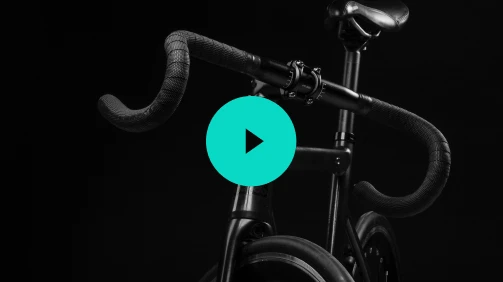
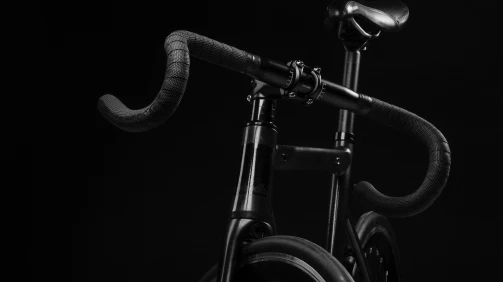
делает разметку и стили блоку видео

Changed region(s): [[0.3877, 0.3404, 0.5964, 0.6809]]

diff --git a/build/css/style.min.css b/build/css/style.min.css
@@ -1,3 +1,3 @@
 /*! normalize.css v8.0.1 | MIT License | github.com/necolas/normalize.css */
-html{line-height:1.15;-webkit-text-size-adjust:100%}body,sub,sup{position:relative}body{margin:0;font-family:"Open Sans","Arial",sans-serif;color:#fff;font-weight:400;font-size:16px;line-height:2}details,img,main{display:block}h1{font-size:2em;margin:.67em 0}hr{-webkit-box-sizing:content-box;box-sizing:content-box;height:0;overflow:visible}code,kbd,pre,samp{font-family:monospace,monospace;font-size:1em}a{background-color:transparent;text-decoration:none;color:inherit}abbr[title]{border-bottom:none;-webkit-text-decoration:underline dotted;text-decoration:underline dotted}b,strong{font-weight:bolder}small{font-size:80%}sub,sup{font-size:75%;line-height:0;vertical-align:baseline}sub{bottom:-.25em}sup{top:-.5em}img{border-style:none;width:100%;height:auto}button,input,optgroup,select,textarea{font-family:inherit;font-size:100%;line-height:1.15;margin:0}button,input{overflow:visible}button,select{text-transform:none}[type=button],[type=reset],[type=submit],button{-webkit-appearance:button}[type=button]::-moz-focus-inner,[type=reset]::-moz-focus-inner,[type=submit]::-moz-focus-inner,button::-moz-focus-inner{border-style:none;padding:0}[type=button]:-moz-focusring,[type=reset]:-moz-focusring,[type=submit]:-moz-focusring,button:-moz-focusring{outline:1px dotted ButtonText}fieldset{padding:.35em .75em .625em}legend{color:inherit;display:table;max-width:100%;white-space:normal}progress{vertical-align:baseline}textarea{overflow:auto}[type=checkbox],[type=radio],legend{-webkit-box-sizing:border-box;box-sizing:border-box;padding:0}[type=number]::-webkit-inner-spin-button,[type=number]::-webkit-outer-spin-button{height:auto}[type=search]{-webkit-appearance:textfield;outline-offset:-2px}[type=search]::-webkit-search-decoration{-webkit-appearance:none}::-webkit-file-upload-button{-webkit-appearance:button;font:inherit}summary{display:list-item}.main-nav .main-nav__toggle,[hidden],template{display:none}@font-face{font-family:"Open Sans";src:url(../fonts/open-sans-300.woff2) format("woff2"),url(../fonts/open-sans-300.woff) format("woff");font-weight:300;font-style:normal;font-display:swap}@font-face{font-family:"Open Sans";src:url(../fonts/open-sans-400.woff2) format("woff2"),url(../fonts/open-sans-400.woff) format("woff");font-weight:400;font-style:normal;font-display:swap}@font-face{font-family:"Open Sans";src:url(../fonts/open-sans-600.woff2) format("woff2"),url(../fonts/open-sans-600.woff) format("woff");font-weight:600;font-style:normal;font-display:swap}@font-face{font-family:"Open Sans";src:url(../fonts/open-sans-700.woff2) format("woff2"),url(../fonts/open-sans-700.woff) format("woff");font-weight:700;font-style:normal;font-display:swap}.visually-hidden{position:absolute;width:1px;height:1px;margin:-1px;border:0;padding:0;clip:rect(0 0 0 0);overflow:hidden}.container{max-width:1440px;margin:0 auto;padding:0 15px}@media (max-width:1023px){.container{min-width:768px}}@media (max-width:767px){.container{min-width:320px}}*,::after,::before{-webkit-box-sizing:border-box;box-sizing:border-box}.overflowed{overflow:hidden}.main-nav,.main-nav .main-nav__list{display:-webkit-box;display:-ms-flexbox;display:flex}.main-nav{border-bottom:1px solid rgba(255,255,255,.2);padding:20px 20px 10px}.main-nav .main-nav__list{padding:0;margin:0;list-style:none;-webkit-box-pack:justify;-ms-flex-pack:justify;justify-content:space-between;-ms-flex-wrap:wrap;flex-wrap:wrap;width:100%;font-weight:300;opacity:.7}.main-nav .main-nav__list li:hover{color:#0ad9c6}@media (max-width:1023px){.main-nav{position:relative;padding:0}.main-nav .main-nav__toggle{display:block;position:absolute;background:#0ad9c6;width:50px;height:50px;right:0;padding:0;border:0;z-index:5;cursor:pointer}.main-nav--closed .main-nav__toggle::before{content:"";position:absolute;top:16px;right:13px;width:25px;height:1px;background-color:#1f1f1f;-webkit-box-shadow:0 8px 0 0 #1f1f1f,0 16px 0 0 #1f1f1f;box-shadow:0 8px 0 0 #1f1f1f,0 16px 0 0 #1f1f1f}.main-nav--opened .main-nav__toggle::after,.main-nav--opened .main-nav__toggle::before{content:"";position:absolute;right:13px;width:25px;height:1px;background-color:rgba(20,21,23,.2)}.main-nav .main-nav__list a::after,.main-nav--opened .main-nav__toggle::before{-webkit-transform:rotate(45deg);transform:rotate(45deg)}.main-nav--opened .main-nav__toggle::after{-webkit-transform:rotate(-45deg);transform:rotate(-45deg)}.main-nav--opened .main-nav__toggle{background:0 0}.main-nav--closed .main-nav__list{display:none}.main-nav--opened{background-color:#fff;z-index:2}.main-nav--opened .main-nav__list{-webkit-box-orient:vertical;-webkit-box-direction:normal;-ms-flex-direction:column;flex-direction:column;-webkit-box-pack:end;-ms-flex-pack:end;justify-content:end;min-height:100vh;color:#48494d;margin-top:70px}.main-nav .main-nav__list li{padding:16px;background-color:#f6f6f6;margin-top:30px;font-size:20px;font-weight:400;line-height:28px;letter-spacing:.6px}.main-nav .main-nav__list a{position:relative;display:block}.main-nav .main-nav__list a::after{content:"";position:absolute;border-top:1px solid #48494d;border-right:1px solid #48494d;width:8px;height:8px;top:9px;right:10px}.main-nav--nojs .main-nav__list{min-height:100%}.main-nav--nojs .main-nav__toggle{display:none}}.intro{display:-webkit-box;display:-ms-flexbox;display:flex;margin:0 auto;-webkit-box-pack:center;-ms-flex-pack:center;justify-content:center;min-height:760px;-webkit-box-align:center;-ms-flex-align:center;align-items:center;position:relative}.intro .intro__inner{max-width:393px;position:relative}.intro .intro__logo{position:absolute;top:15px;left:0}.intro .intro__inner h2{font-size:46px;line-height:64px;margin-top:65px;margin-bottom:25px;letter-spacing:2px}.intro .intro__inner p{margin:0;font-size:20px;font-weight:300;line-height:32px;opacity:.8}.intro .intro__form{margin-left:160px;max-width:330px;padding-top:22px}.intro .intro__form p{font-weight:600;font-size:17px;line-height:28px;text-align:center;letter-spacing:.3px}.intro .intro__form button,.intro .intro__form input{margin-top:20px;width:100%}.intro .intro__form input{padding:12px 30px;border:0;-webkit-box-shadow:0 0 0 1px #c9ccd4;box-shadow:0 0 0 1px #c9ccd4;border-radius:4px;-webkit-box-flex:1;-ms-flex-positive:1;flex-grow:1;font-size:15px;line-height:24px;letter-spacing:.3px}.intro .intro__form input:hover{-webkit-box-shadow:0 0 0 3px #0ad9c6;box-shadow:0 0 0 3px #0ad9c6}.intro .intro__form p,.intro .intro__inner{margin:0}.intro .intro__form button{background:#0ad9c6;border-radius:6px;font-weight:600;font-size:15px;line-height:21px;padding:15px 10px;border:0;cursor:pointer}.intro .intro__form button:hover{background-color:#08a89a}@media (max-width:1023px){.intro{-webkit-box-orient:vertical;-webkit-box-direction:normal;-ms-flex-direction:column;flex-direction:column;-webkit-box-pack:initial;-ms-flex-pack:initial;justify-content:initial;min-height:738px;padding:0}.intro--nojs::before{top:480px}.intro .intro__logo{left:20px;top:25px}.intro .intro__form{max-width:321px;margin-left:0;padding:0}.intro .intro__form button,.intro .intro__form input{margin-top:0;margin-bottom:20px}.intro .intro__form input{padding:12px 25px}.intro .intro__inner{max-width:100%;text-align:center;margin-top:68px;background-image:url(../img/img-bike-tablet@1x.png);min-height:340px;background-repeat:no-repeat;background-position:center;background-size:cover;background-color:#1f1f1f;width:100%;top:-69px;left:0;bottom:0;z-index:-1}}@media (max-width:1023px) and (-webkit-min-device-pixel-ratio:1.5),(max-width:1023px) and (min-resolution:1.5dppx){.intro .intro__inner{background-image:url(../img/img-bike-tablet@2x.png)}}@media (max-width:1023px){.intro .intro__inner--nojs{top:500px}.intro .intro__inner h2{font-size:30px;line-height:42px;margin-top:135px;margin-bottom:20px;letter-spacing:.9px}.intro .intro__inner p{font-size:18px;max-width:435px;margin:0 auto;letter-spacing:.3px}.intro .intro__form p{font-weight:600;font-size:18px;color:#000;margin-bottom:30px;letter-spacing:0}}@media (max-width:767px){.intro .intro__logo{top:24px;left:17px}.intro .intro__inner{margin-top:55px;padding:0 15px;background-image:url(../img/img-bike-mobile@1x.png);min-height:390px;top:-56px}}@media (max-width:767px) and (-webkit-min-device-pixel-ratio:1.5),(max-width:767px) and (min-resolution:1.5dppx){.intro .intro__inner{background-image:url(../img/img-bike-mobile@2x.png)}}@media (max-width:767px){.intro .intro__inner h2{margin-top:120px}.intro .intro__form p{margin-bottom:20px;letter-spacing:.3px}.intro .intro__form{padding:0 17px;margin-top:14px}}.header{margin:0 auto;max-width:875px;position:relative;padding:0}@media (max-width:1023px){.header{margin:0;max-width:100%}}.about,.about .about__list{display:-webkit-box;display:-ms-flexbox;display:flex;-ms-flex-wrap:wrap;flex-wrap:wrap;-webkit-box-pack:center;-ms-flex-pack:center;justify-content:center}.about{-webkit-box-orient:vertical;-webkit-box-direction:normal;-ms-flex-direction:column;flex-direction:column;min-height:500px}.about .about__title{font-weight:600;font-size:30px;color:#1f1f1f;margin:0 0 45px;line-height:30px;padding-left:18px;padding-top:10px;text-align:center}.about .about__list{padding:0;margin:0;list-style:none;color:#000}.about .about__list li{max-width:260px;text-align:center;padding:5px;margin-right:38px}.about .about__list li:nth-child(4n){margin:0}.about .about__list p{margin:0;font-size:22px;line-height:34px}.about .about__list span{color:#0ad9c6;font-weight:700;font-size:28px;line-height:38px;margin-bottom:14px;display:block}@media (max-width:1023px){.about{min-height:425px}.about .about__title{margin-bottom:25px;font-size:24px;line-height:41px;padding:0}.about .about__list{-ms-flex-wrap:wrap;flex-wrap:wrap;-webkit-box-pack:center;-ms-flex-pack:center;justify-content:center}.about .about__list li{margin:0 18px 34px}.about .about__list li:nth-child(4n){margin-bottom:34px;margin-right:18px;margin-left:18px}.about .about__list span{margin-bottom:15px}}@media (max-width:767px){.about{margin-top:50px}.about .about__list p{font-size:18px}.about .about__list li{padding:0;margin-bottom:53px;margin-right:0;margin-left:0}.about .about__list li:nth-child(1){margin-bottom:32px}.about .about__title{margin-bottom:31px}.about .about__list span{margin-bottom:13px}}.types{background-color:#f6f6f6;min-height:1038px;-webkit-box-orient:vertical;-webkit-box-direction:normal;-ms-flex-direction:column;flex-direction:column;-webkit-box-align:center;-ms-flex-align:center;align-items:center;max-width:100%}.types picture{z-index:1}.types h2{font-weight:600;font-size:30px;color:#1f1f1f;padding-right:10px;line-height:30px;margin:155px 0 0}.types,.types li,.types ul{display:-webkit-box;display:-ms-flexbox;display:flex}.types ul{list-style:none;margin:50px 0 0 20px;padding:0 60px}.types li{margin-right:50px;color:#000;-webkit-box-orient:vertical;-webkit-box-direction:normal;-ms-flex-direction:column;flex-direction:column;-webkit-box-align:center;-ms-flex-align:center;align-items:center;font-weight:600;font-size:22px;line-height:34px;position:relative}.types li:nth-child(1)::after,.types li:nth-child(1)::before,.types li:nth-child(2n)::after,.types li:nth-child(2n)::before,.types li:nth-child(3n)::after,.types li:nth-child(3n)::before{content:"";position:absolute}.types li:nth-child(1){margin-top:10px}.types li:nth-child(1)::before{width:180px;height:180px;border:27px solid #0ad9c6;border-radius:50%;top:155px;left:-60px;z-index:0}.types li:nth-child(2n){margin-top:40px}.types li:nth-child(2n)::after,.types li:nth-child(2n)::before{width:47px;height:47px;border:8px solid #0ad9c6;z-index:2}.types li:nth-child(2n)::before{top:-20px;left:-18px}.types li:nth-child(2n)::after{bottom:33px;right:-24px}.types li:nth-child(3n){margin-right:0}.types li:nth-child(3n)::before{z-index:2;width:95px;height:95px;border:17px solid #0ad9c6;border-radius:50%;top:-32px;right:-38px}.types a{margin-top:20px}@media (max-width:1023px){.types{min-height:950px;padding:0;margin-top:15px}.types h2{font-size:24px;line-height:41px;margin-top:50px;margin-bottom:30px;padding-right:0}.types ul{-ms-flex-wrap:wrap;flex-wrap:wrap;-ms-flex-pack:distribute;justify-content:space-around;padding:0 65px;margin:0}.types li:nth-child(1),.types li:nth-child(2n),.types li:nth-child(3n){margin:0 10px 50px}.types li:nth-child(1)::before{width:127px;height:127px;border-width:18px;top:200px;left:-40px}.types li:nth-child(2n)::after,.types li:nth-child(2n)::before{border:0}.types li:nth-child(3n)::before{width:68px;height:68px;border-width:13px;top:-20px;right:-25px}}@media (max-width:767px){.types{min-height:1320px;padding:0 25px;margin-top:46px}.types ul{padding:0;-webkit-box-orient:vertical;-webkit-box-direction:normal;-ms-flex-direction:column;flex-direction:column}.types li:nth-child(1),.types li:nth-child(2n),.types li:nth-child(3n){margin-bottom:42px;margin-right:0;margin-left:0}.types li:nth-child(1)::before{top:200px;left:-25px;z-index:-1}.types li:nth-child(3n)::before{right:-15px}}.wrapper{position:relative;background-image:url(../img/img-bike@1x.png);background-repeat:no-repeat;background-position:center;background-size:cover;background-color:#1f1f1f;width:100%;top:0;left:0;bottom:0}@media (-webkit-min-device-pixel-ratio:1.5),(min-resolution:1.5dppx){.wrapper{background-image:url(../img/img-bike@2x.png)}}@media (max-width:1023px){.wrapper{background:0 0}}
+html{line-height:1.15;-webkit-text-size-adjust:100%}body,sub,sup{position:relative}body{margin:0;font-family:"Open Sans","Arial",sans-serif;color:#fff;font-weight:400;font-size:16px;line-height:2}details,img,main{display:block}h1{font-size:2em;margin:.67em 0}hr{-webkit-box-sizing:content-box;box-sizing:content-box;height:0;overflow:visible}code,kbd,pre,samp{font-family:monospace,monospace;font-size:1em}a{background-color:transparent;text-decoration:none;color:inherit}abbr[title]{border-bottom:none;-webkit-text-decoration:underline dotted;text-decoration:underline dotted}b,strong{font-weight:bolder}small{font-size:80%}sub,sup{font-size:75%;line-height:0;vertical-align:baseline}sub{bottom:-.25em}sup{top:-.5em}img{border-style:none;width:100%;height:auto}button,input,optgroup,select,textarea{font-family:inherit;font-size:100%;line-height:1.15;margin:0}button,input{overflow:visible}button,select{text-transform:none}[type=button],[type=reset],[type=submit],button{-webkit-appearance:button}[type=button]::-moz-focus-inner,[type=reset]::-moz-focus-inner,[type=submit]::-moz-focus-inner,button::-moz-focus-inner{border-style:none;padding:0}[type=button]:-moz-focusring,[type=reset]:-moz-focusring,[type=submit]:-moz-focusring,button:-moz-focusring{outline:1px dotted ButtonText}fieldset{padding:.35em .75em .625em}legend{color:inherit;display:table;max-width:100%;white-space:normal}progress{vertical-align:baseline}textarea{overflow:auto}[type=checkbox],[type=radio],legend{-webkit-box-sizing:border-box;box-sizing:border-box;padding:0}[type=number]::-webkit-inner-spin-button,[type=number]::-webkit-outer-spin-button{height:auto}[type=search]{-webkit-appearance:textfield;outline-offset:-2px}[type=search]::-webkit-search-decoration{-webkit-appearance:none}::-webkit-file-upload-button{-webkit-appearance:button;font:inherit}summary{display:list-item}.main-nav .main-nav__toggle,[hidden],template{display:none}@font-face{font-family:"Open Sans";src:url(../fonts/open-sans-300.woff2) format("woff2"),url(../fonts/open-sans-300.woff) format("woff");font-weight:300;font-style:normal;font-display:swap}@font-face{font-family:"Open Sans";src:url(../fonts/open-sans-400.woff2) format("woff2"),url(../fonts/open-sans-400.woff) format("woff");font-weight:400;font-style:normal;font-display:swap}@font-face{font-family:"Open Sans";src:url(../fonts/open-sans-600.woff2) format("woff2"),url(../fonts/open-sans-600.woff) format("woff");font-weight:600;font-style:normal;font-display:swap}@font-face{font-family:"Open Sans";src:url(../fonts/open-sans-700.woff2) format("woff2"),url(../fonts/open-sans-700.woff) format("woff");font-weight:700;font-style:normal;font-display:swap}.visually-hidden{position:absolute;width:1px;height:1px;margin:-1px;border:0;padding:0;clip:rect(0 0 0 0);overflow:hidden}.container{max-width:1440px;margin:0 auto;padding:0 15px}@media (max-width:1023px){.container{min-width:768px}}@media (max-width:767px){.container{min-width:320px}}*,::after,::before{-webkit-box-sizing:border-box;box-sizing:border-box}.overflowed{overflow:hidden}.main-nav,.main-nav .main-nav__list{display:-webkit-box;display:-ms-flexbox;display:flex}.main-nav{border-bottom:1px solid rgba(255,255,255,.2);padding:20px 20px 10px}.main-nav .main-nav__list{padding:0;margin:0;list-style:none;-webkit-box-pack:justify;-ms-flex-pack:justify;justify-content:space-between;-ms-flex-wrap:wrap;flex-wrap:wrap;width:100%;font-weight:300;opacity:.7}.main-nav .main-nav__list li:hover{color:#0ad9c6}@media (max-width:1023px){.main-nav{position:relative;padding:0}.main-nav .main-nav__toggle{display:block;position:absolute;background:#0ad9c6;width:50px;height:50px;right:0;padding:0;border:0;z-index:5;cursor:pointer}.main-nav--closed .main-nav__toggle::before{content:"";position:absolute;top:16px;right:13px;width:25px;height:1px;background-color:#1f1f1f;-webkit-box-shadow:0 8px 0 0 #1f1f1f,0 16px 0 0 #1f1f1f;box-shadow:0 8px 0 0 #1f1f1f,0 16px 0 0 #1f1f1f}.main-nav--opened .main-nav__toggle::after,.main-nav--opened .main-nav__toggle::before{content:"";position:absolute;right:13px;width:25px;height:1px;background-color:rgba(20,21,23,.2)}.main-nav .main-nav__list a::after,.main-nav--opened .main-nav__toggle::before{-webkit-transform:rotate(45deg);transform:rotate(45deg)}.main-nav--opened .main-nav__toggle::after{-webkit-transform:rotate(-45deg);transform:rotate(-45deg)}.main-nav--opened .main-nav__toggle{background:0 0}.main-nav--closed .main-nav__list{display:none}.main-nav--opened{background-color:#fff;z-index:2}.main-nav--opened .main-nav__list{-webkit-box-orient:vertical;-webkit-box-direction:normal;-ms-flex-direction:column;flex-direction:column;-webkit-box-pack:end;-ms-flex-pack:end;justify-content:end;min-height:100vh;color:#48494d;margin-top:70px}.main-nav .main-nav__list li{padding:16px;background-color:#f6f6f6;margin-top:30px;font-size:20px;font-weight:400;line-height:28px;letter-spacing:.6px}.main-nav .main-nav__list a{position:relative;display:block}.main-nav .main-nav__list a::after{content:"";position:absolute;border-top:1px solid #48494d;border-right:1px solid #48494d;width:8px;height:8px;top:9px;right:10px}.main-nav--nojs .main-nav__list{min-height:100%}.main-nav--nojs .main-nav__toggle{display:none}}.intro{display:-webkit-box;display:-ms-flexbox;display:flex;margin:0 auto;-webkit-box-pack:center;-ms-flex-pack:center;justify-content:center;min-height:760px;-webkit-box-align:center;-ms-flex-align:center;align-items:center;position:relative}.intro .intro__inner{max-width:393px;position:relative}.intro .intro__logo{position:absolute;top:15px;left:0}.intro .intro__inner h2{font-size:46px;line-height:64px;margin-top:65px;margin-bottom:25px;letter-spacing:2px}.intro .intro__inner p{margin:0;font-size:20px;font-weight:300;line-height:32px;opacity:.8}.intro .intro__form{margin-left:160px;max-width:330px;padding-top:22px}.intro .intro__form p{font-weight:600;font-size:17px;line-height:28px;text-align:center;letter-spacing:.3px}.intro .intro__form button,.intro .intro__form input{margin-top:20px;width:100%}.intro .intro__form input{padding:12px 30px;border:0;-webkit-box-shadow:0 0 0 1px #c9ccd4;box-shadow:0 0 0 1px #c9ccd4;border-radius:4px;-webkit-box-flex:1;-ms-flex-positive:1;flex-grow:1;font-size:15px;line-height:24px;letter-spacing:.3px}.intro .intro__form input:hover{-webkit-box-shadow:0 0 0 3px #0ad9c6;box-shadow:0 0 0 3px #0ad9c6}.intro .intro__form p,.intro .intro__inner{margin:0}.intro .intro__form button{background:#0ad9c6;border-radius:6px;font-weight:600;font-size:15px;line-height:21px;padding:15px 10px;border:0;cursor:pointer}.intro .intro__form button:hover{background-color:#08a89a}@media (max-width:1023px){.intro{-webkit-box-orient:vertical;-webkit-box-direction:normal;-ms-flex-direction:column;flex-direction:column;-webkit-box-pack:initial;-ms-flex-pack:initial;justify-content:initial;min-height:738px;padding:0}.intro--nojs::before{top:480px}.intro .intro__logo{left:20px;top:25px}.intro .intro__form{max-width:321px;margin-left:0;padding:0}.intro .intro__form button,.intro .intro__form input{margin-top:0;margin-bottom:20px}.intro .intro__form input{padding:12px 25px}.intro .intro__inner{max-width:100%;text-align:center;margin-top:68px;background-image:url(../img/img-bike-tablet@1x.png);min-height:340px;background-repeat:no-repeat;background-position:center;background-size:cover;background-color:#1f1f1f;width:100%;top:-69px;left:0;bottom:0;z-index:-1}}@media (max-width:1023px) and (-webkit-min-device-pixel-ratio:1.5),(max-width:1023px) and (min-resolution:1.5dppx){.intro .intro__inner{background-image:url(../img/img-bike-tablet@2x.png)}}@media (max-width:1023px){.intro .intro__inner--nojs{top:500px}.intro .intro__inner h2{font-size:30px;line-height:42px;margin-top:135px;margin-bottom:20px;letter-spacing:.9px}.intro .intro__inner p{font-size:18px;max-width:435px;margin:0 auto;letter-spacing:.3px}.intro .intro__form p{font-weight:600;font-size:18px;color:#000;margin-bottom:30px;letter-spacing:0}}@media (max-width:767px){.intro .intro__logo{top:24px;left:17px}.intro .intro__inner{margin-top:55px;padding:0 15px;background-image:url(../img/img-bike-mobile@1x.png);min-height:390px;top:-56px}}@media (max-width:767px) and (-webkit-min-device-pixel-ratio:1.5),(max-width:767px) and (min-resolution:1.5dppx){.intro .intro__inner{background-image:url(../img/img-bike-mobile@2x.png)}}@media (max-width:767px){.intro .intro__inner h2{margin-top:120px}.intro .intro__form p{margin-bottom:20px;letter-spacing:.3px}.intro .intro__form{padding:0 17px;margin-top:14px}}.header{margin:0 auto;max-width:875px;position:relative;padding:0}@media (max-width:1023px){.header{margin:0;max-width:100%}}.about,.about .about__list{display:-webkit-box;display:-ms-flexbox;display:flex;-ms-flex-wrap:wrap;flex-wrap:wrap;-webkit-box-pack:center;-ms-flex-pack:center;justify-content:center}.about{-webkit-box-orient:vertical;-webkit-box-direction:normal;-ms-flex-direction:column;flex-direction:column;min-height:500px}.about .about__title{font-weight:600;font-size:30px;color:#1f1f1f;margin:0 0 45px;line-height:30px;padding-left:18px;padding-top:10px;text-align:center}.about .about__list{padding:0;margin:0;list-style:none;color:#000}.about .about__list li{max-width:260px;text-align:center;padding:5px;margin-right:38px}.about .about__list li:nth-child(4n){margin:0}.about .about__list p{margin:0;font-size:22px;line-height:34px}.about .about__list span{color:#0ad9c6;font-weight:700;font-size:28px;line-height:38px;margin-bottom:14px;display:block}@media (max-width:1023px){.about{min-height:425px}.about .about__title{margin-bottom:25px;font-size:24px;line-height:41px;padding:0}.about .about__list{-ms-flex-wrap:wrap;flex-wrap:wrap;-webkit-box-pack:center;-ms-flex-pack:center;justify-content:center}.about .about__list li{margin:0 18px 34px}.about .about__list li:nth-child(4n){margin-bottom:34px;margin-right:18px;margin-left:18px}.about .about__list span{margin-bottom:15px}}@media (max-width:767px){.about{margin-top:50px}.about .about__list p{font-size:18px}.about .about__list li{padding:0;margin-bottom:53px;margin-right:0;margin-left:0}.about .about__list li:nth-child(1){margin-bottom:32px}.about .about__title{margin-bottom:31px}.about .about__list span{margin-bottom:13px}}.types{background-color:#f6f6f6;min-height:1042px;-webkit-box-orient:vertical;-webkit-box-direction:normal;-ms-flex-direction:column;flex-direction:column;-webkit-box-align:center;-ms-flex-align:center;align-items:center;max-width:100%}.types picture{z-index:1}.types h2{font-weight:600;font-size:30px;color:#1f1f1f;padding-right:10px;line-height:30px;margin:155px 0 0}.types,.types li,.types ul{display:-webkit-box;display:-ms-flexbox;display:flex}.types ul{list-style:none;margin:50px 0 0 20px;padding:0 60px}.types li{margin-right:50px;color:#000;-webkit-box-orient:vertical;-webkit-box-direction:normal;-ms-flex-direction:column;flex-direction:column;-webkit-box-align:center;-ms-flex-align:center;align-items:center;font-weight:600;font-size:22px;line-height:34px;position:relative}.types li:nth-child(1)::after,.types li:nth-child(1)::before,.types li:nth-child(2n)::after,.types li:nth-child(2n)::before,.types li:nth-child(3n)::after,.types li:nth-child(3n)::before{content:"";position:absolute}.types li:nth-child(1){margin-top:10px}.types li:nth-child(1)::before{width:180px;height:180px;border:27px solid #0ad9c6;border-radius:50%;top:155px;left:-60px;z-index:0}.types li:nth-child(2n){margin-top:40px}.types li:nth-child(2n)::after,.types li:nth-child(2n)::before{width:47px;height:47px;border:8px solid #0ad9c6;z-index:2}.types li:nth-child(2n)::before{top:-20px;left:-18px}.types li:nth-child(2n)::after{bottom:33px;right:-24px}.types li:nth-child(3n){margin-right:0}.types li:nth-child(3n)::before{z-index:2;width:95px;height:95px;border:17px solid #0ad9c6;border-radius:50%;top:-32px;right:-38px}.types a{margin-top:20px}@media (max-width:1023px){.types{min-height:950px;padding:0;margin-top:15px}.types h2{font-size:24px;line-height:41px;margin-top:50px;margin-bottom:30px;padding-right:0}.types ul{-ms-flex-wrap:wrap;flex-wrap:wrap;-ms-flex-pack:distribute;justify-content:space-around;padding:0 65px;margin:0}.types li:nth-child(1),.types li:nth-child(2n),.types li:nth-child(3n){margin:0 10px 50px}.types li:nth-child(1)::before{width:127px;height:127px;border-width:18px;top:200px;left:-40px}.types li:nth-child(2n)::after,.types li:nth-child(2n)::before{border:0}.types li:nth-child(3n)::before{width:68px;height:68px;border-width:13px;top:-20px;right:-25px}}@media (max-width:767px){.types{min-height:1320px;padding:0 25px;margin-top:46px}.types ul{padding:0;-webkit-box-orient:vertical;-webkit-box-direction:normal;-ms-flex-direction:column;flex-direction:column}.types li:nth-child(1),.types li:nth-child(2n),.types li:nth-child(3n){margin-bottom:42px;margin-right:0;margin-left:0}.types li:nth-child(1)::before{top:200px;left:-25px;z-index:-1}.types li:nth-child(3n)::before{right:-15px}}.wrapper{position:relative;background-image:url(../img/img-bike@1x.png);background-repeat:no-repeat;background-position:center;background-size:cover;background-color:#1f1f1f;width:100%;top:0;left:0;bottom:0}@media (-webkit-min-device-pixel-ratio:1.5),(min-resolution:1.5dppx){.wrapper{background-image:url(../img/img-bike@2x.png)}}@media (max-width:1023px){.wrapper{background:0 0}}.video{background-color:#131314;width:100%;display:-webkit-box;display:-ms-flexbox;display:flex;-webkit-box-orient:vertical;-webkit-box-direction:normal;-ms-flex-direction:column;flex-direction:column;-webkit-box-align:center;-ms-flex-align:center;align-items:center;position:relative;min-height:706px}.video h2{font-weight:600;font-size:30px;margin:120px 0 0;line-height:30px;padding-right:10px}.video p{margin:20px 0 0;opacity:.7;max-width:340px;font-weight:300;line-height:28px;text-align:center}.video picture,.video::before{position:absolute;top:285px}.video::before{content:"";width:65px;height:65px;border-radius:50%;background:#0ad9c6;top:510px;z-index:2}.video::after{content:"";position:absolute;top:535px;z-index:3;width:0;height:0;border-style:solid;border-width:9px 0 9px 13px;border-color:transparent transparent transparent #1f1f1f}@media (max-width:1023px){.video{min-height:413px}.video h2{font-size:24px;margin-top:70px;padding-right:0}.video p{max-width:430px}.video picture{top:215px;width:503px}.video::before{width:91px;height:91px;top:310px}.video::after{top:344px;border-width:12px 0 12px 18px}}@media (max-width:767px){.video{min-height:384px}.video h2{margin-top:85px;padding-right:9px}.video picture{top:272px;width:288px}.video::before{width:65px;height:65px;top:320px}.video::after{border-width:9px 0 9px 13px}}
 /*# sourceMappingURL=style.min.css.map */

diff --git a/source/sass/blocks/video.scss b/source/sass/blocks/video.scss
@@ -1,0 +1,108 @@
+.video {
+  background-color: $very-dark-blue;
+  width: 100%;
+  display: flex;
+  flex-direction: column;
+  align-items: center;
+  position: relative;
+  min-height: 706px;
+
+  h2 {
+    @include title;
+    margin-top: 120px;
+    line-height: 30px;
+    padding-right: 10px;
+  }
+
+  p {
+    margin: 0;
+    margin-top: 20px;
+    opacity: 0.7;
+    max-width: 340px;
+    font-weight: 300;
+    line-height: 28px;
+    text-align: center;
+  }
+
+  picture {
+    position: absolute;
+    top: 285px;
+  }
+
+  &::before {
+    content: "";
+    position: absolute;
+    width: 65px;
+    height: 65px;
+    border-radius: 50%;
+    background: $vivid-cyan;
+    top: 510px;
+    z-index: 2;
+  }
+
+  &::after {
+    content: "";
+    position: absolute;
+    top: 535px;
+    z-index: 3;
+    width: 0;
+    height: 0;
+    border-style: solid;
+    border-width: 9px 0 9px 13px;
+    border-color: transparent transparent transparent $very-dark-gray;
+  }
+
+  @media (max-width: $bp-tablet) {
+    min-height: 413px;
+
+    h2 {
+      font-size: 24px;
+      margin-top: 70px;
+      padding-right: 0;
+    }
+
+    p {
+      max-width: 430px;
+    }
+
+    picture {
+      top: 215px;
+      width: 503px;
+    }
+
+    &::before {
+      width: 91px;
+      height: 91px;
+      top: 310px;
+    }
+
+    &::after {
+      top: 344px;
+      border-width: 12px 0 12px 18px;
+    }
+  }
+
+  @media (max-width: $bp-mobile) {
+    min-height: 384px;
+
+    h2 {
+      margin-top: 85px;
+      padding-right: 9px;
+    }
+
+    picture {
+      top: 272px;
+      width: 288px;
+    }
+
+    &::before {
+      width: 65px;
+      height: 65px;
+      top: 320px;
+    }
+
+    &::after {
+      border-width: 9px 0 9px 13px;
+    }
+  }
+}

diff --git a/source/index.html b/source/index.html
@@ -165,6 +165,24 @@
           </li>
         </ul>
       </section>
+
+      <article class="video container">
+        <h2>Видео про велосипеды</h2>
+        <p>В этом видео мы подробно расскажем про особенности выбора велосипеда для себя.</p>
+        <picture>
+          <source type="image/webp" media="(min-width: 1024px)"
+            srcset="./img/img-video-bike@1x.webp, ./img/img-video-bike@2x.webp 2x">
+          <source type="image/webp" media="(min-width: 768px)"
+            srcset="./img/img-video-bike-tablet@1x.webp, ./img/img-video-bike-tablet@2x.webp 2x">
+          <source type="image/webp"
+            srcset="./img/img/img-video-bike-mobile@1x.webp, ./img/img-video-bike-mobile@2x.webp 2x">
+          <source media="(min-width: 1024px)" srcset="./img/img-video-bike@1x.png, ./img/img-video-bike@2x.png 2x">
+          <source media="(min-width: 768px)"
+            srcset="./img/img-video-bike-tablet@1x.png, ./img/img-video-bike-tablet@2x.png 2x">
+          <img src="./img/img-video-bike-mobile@1x.png" srcset="./img/img-video-bike-mobile@2x.png 2x" width="288"
+            height="162" alt="Видео про велосипеды">
+        </picture>
+      </article>
     </main>
 
     <script src="js/script.js"></script>

diff --git a/build/index.html b/build/index.html
@@ -142,6 +142,19 @@
           </li>
         </ul>
       </section>
+
+      <article class="video container">
+        <h2>Видео про велосипеды</h2>
+        <p>В этом видео мы подробно расскажем про особенности выбора велосипеда для себя.</p>
+        <picture>
+          <source type="image/webp" media="(min-width: 1024px)" srcset="./img/img-video-bike@1x.webp, ./img/img-video-bike@2x.webp 2x">
+          <source type="image/webp" media="(min-width: 768px)" srcset="./img/img-video-bike-tablet@1x.webp, ./img/img-video-bike-tablet@2x.webp 2x">
+          <source type="image/webp" srcset="./img/img/img-video-bike-mobile@1x.webp, ./img/img-video-bike-mobile@2x.webp 2x">
+          <source media="(min-width: 1024px)" srcset="./img/img-video-bike@1x.png, ./img/img-video-bike@2x.png 2x">
+          <source media="(min-width: 768px)" srcset="./img/img-video-bike-tablet@1x.png, ./img/img-video-bike-tablet@2x.png 2x">
+          <img src="./img/img-video-bike-mobile@1x.png" srcset="./img/img-video-bike-mobile@2x.png 2x" width="288" height="162" alt="Видео про велосипеды">
+        </picture>
+      </article>
     </main>
 
     <script src="js/script.js"></script>

diff --git a/source/sass/blocks/types.scss b/source/sass/blocks/types.scss
@@ -1,6 +1,6 @@
 .types {
   background-color: $very-light-gray;
-  min-height: 1038px;
+  min-height: 1042px;
   display: flex;
   flex-direction: column;
   align-items: center;

diff --git a/source/sass/variables.scss b/source/sass/variables.scss
@@ -10,3 +10,4 @@ $very-light-gray: #f6f6f6;
 $medium-gray: #48494d;
 $vivid-cyan: #0ad9c6;
 $grayish-blue: #c9ccd4;
+$very-dark-blue: #131314;

diff --git a/source/sass/style.scss b/source/sass/style.scss
@@ -14,3 +14,4 @@
 @import "blocks/about.scss";
 @import "blocks/types.scss";
 @import "blocks/wrapper.scss";
+@import "blocks/video.scss";
